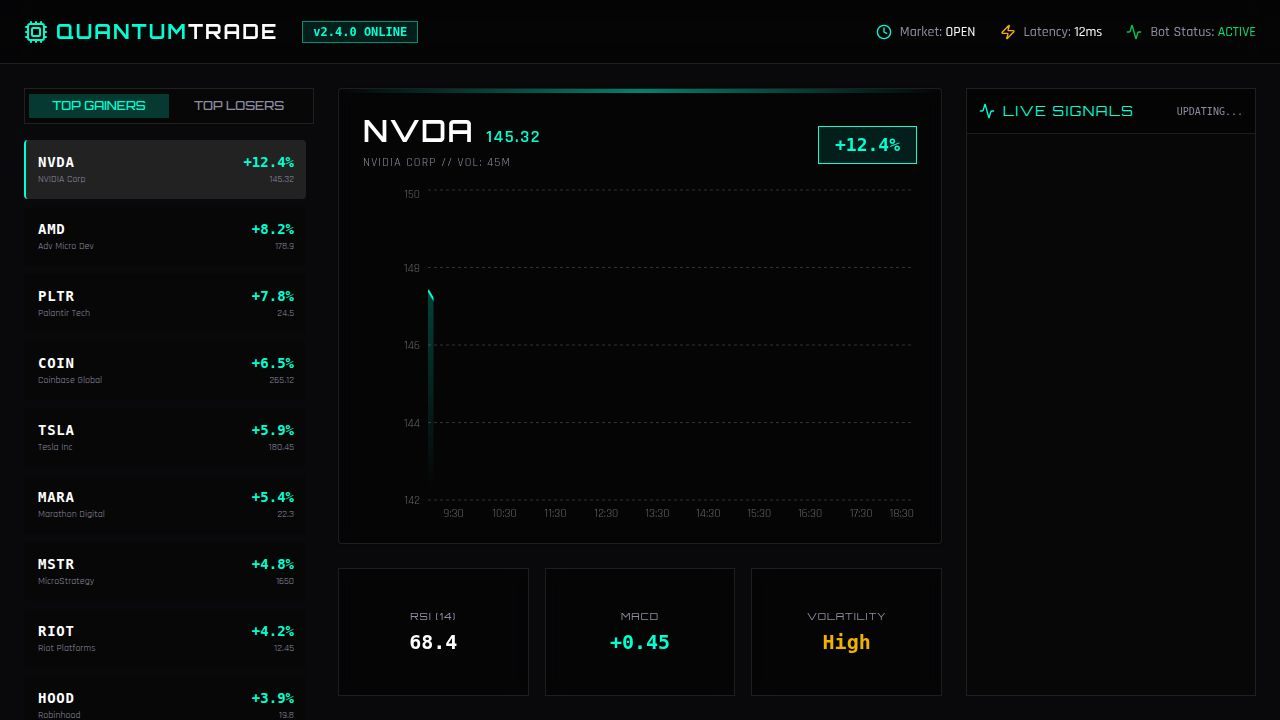
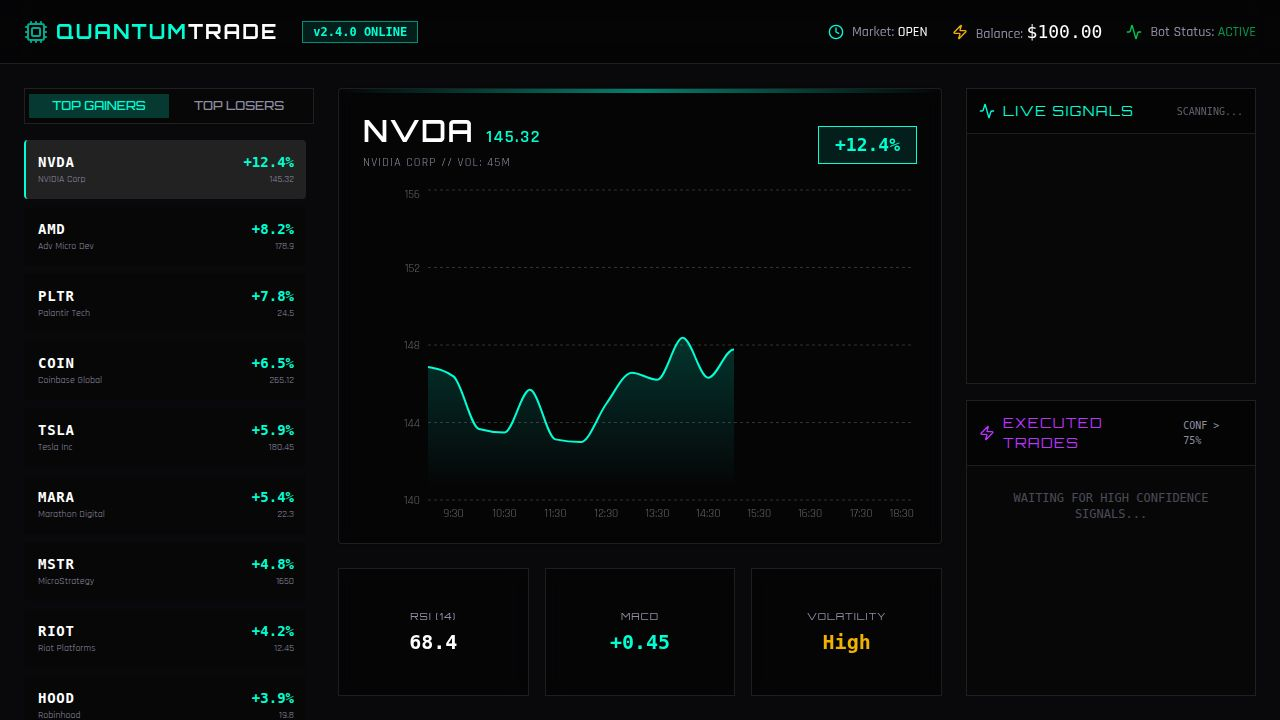
Automate trades and track transaction history for the trading bot
Introduce balance state, transaction history tracking, and automated trading logic that triggers trades on signals with over 75% confidence, updating the balance and logging executed trades.

Replit-Commit-Author: Agent
Replit-Commit-Session-Id: 3a35ee0f-bc3b-4864-a9a5-37226ac26f4b
Replit-Commit-Checkpoint-Type: full_checkpoint
Replit-Commit-Event-Id: b422cfcd-a5a5-4781-a444-f5a15e6d1330
Replit-Commit-Screenshot-Url: https://storage.googleapis.com/screenshot-production-us-central1/daf65a7d-4e71-4830-8395-3f9e1673e2cd/3a35ee0f-bc3b-4864-a9a5-37226ac26f4b/gB4lwvU
Replit-Helium-Checkpoint-Created: true

diff --git a/client/src/pages/dashboard.tsx b/client/src/pages/dashboard.tsx
@@ -87,10 +87,21 @@ interface PredictionLog {
   simulatedProfit: number; // Potential profit on $10
 }
 
+interface Transaction {
+  id: number;
+  symbol: string;
+  action: "BUY" | "SELL";
+  amount: number;
+  profit: number;
+  time: string;
+}
+
 export default function Dashboard() {
   const [logs, setLogs] = useState<PredictionLog[]>([]);
   const [selectedStock, setSelectedStock] = useState(TOP_GAINERS[0]);
   const [chartData, setChartData] = useState(generateStockData(TOP_GAINERS[0].price));
+  const [balance, setBalance] = useState(100);
+  const [transactions, setTransactions] = useState<Transaction[]>([]);
 
   // Simulate Bot Activity
   useEffect(() => {
@@ -123,6 +134,21 @@ export default function Dashboard() {
       };
 
       setLogs(prev => [newLog, ...prev].slice(0, 50));
+
+      // AUTO-TRADE LOGIC: If confidence > 75%, execute trade
+      if (confidence > 75 && action !== "HOLD") {
+        setBalance(prev => prev + simulatedProfit);
+        const newTransaction: Transaction = {
+          id: Date.now(),
+          symbol: randomStock.symbol,
+          action: action as "BUY" | "SELL",
+          amount: investment,
+          profit: simulatedProfit,
+          time: new Date().toLocaleTimeString()
+        };
+        setTransactions(prev => [newTransaction, ...prev].slice(0, 50));
+      }
+
     }, 3000); // New prediction every 3 seconds for demo (user asked for 5 min)
 
     return () => clearInterval(interval);
@@ -187,7 +213,7 @@ export default function Dashboard() {
           </div>
           <div className="flex items-center gap-2">
             <Zap className="w-4 h-4 text-yellow-500" />
-            <span>Latency: <span className="text-white">12ms</span></span>
+            <span>Balance: <span className="text-white font-mono text-lg">${balance.toFixed(2)}</span></span>
           </div>
           <div className="flex items-center gap-2">
             <Activity className="w-4 h-4 text-green-500" />
@@ -289,61 +315,114 @@ export default function Dashboard() {
           </div>
         </section>
 
-        {/* Right Sidebar - Live Bot Logs */}
-        <aside className="col-span-3 flex flex-col h-[calc(100vh-7rem)] bg-black/20 border border-white/10">
-          <div className="p-3 border-b border-white/10 bg-black/40 flex items-center justify-between">
-            <h3 className="font-orbitron text-sm text-primary tracking-widest flex items-center gap-2">
-              <Activity className="w-4 h-4" /> LIVE SIGNALS
-            </h3>
-            <span className="text-[10px] text-muted-foreground font-mono animate-pulse">UPDATING...</span>
-          </div>
-          <div className="flex-1 overflow-y-auto p-2 space-y-2 custom-scrollbar">
-            <AnimatePresence initial={false}>
-              {logs.map((log) => (
-                <motion.div
-                  key={log.id}
-                  initial={{ opacity: 0, x: 20 }}
-                  animate={{ opacity: 1, x: 0 }}
-                  exit={{ opacity: 0 }}
-                  className="p-3 rounded border border-white/5 bg-white/5 hover:bg-white/10 transition-colors"
-                >
-                  <div className="flex justify-between items-start mb-1">
-                    <span className="font-bold text-white font-mono">{log.symbol}</span>
-                    <span className="text-[10px] text-muted-foreground">{log.time}</span>
-                  </div>
-                  <div className="flex items-center justify-between">
-                    <Badge 
-                      variant="outline" 
-                      className={`text-[10px] h-5 px-1 border-0 ${
-                        log.action === 'BUY' ? 'bg-primary/20 text-primary' : 
-                        log.action === 'SELL' ? 'bg-destructive/20 text-destructive' : 
-                        'bg-white/10 text-white'
-                      }`}
-                    >
-                      {log.action}
-                    </Badge>
-                    <span className={`text-xs font-mono font-bold ${log.confidence > 85 ? 'text-green-400' : 'text-yellow-400'}`}>
-                      {log.confidence}% CONF
-                    </span>
-                  </div>
-                  
-                  {/* Simulated Profit Section */}
-                  {log.action !== 'HOLD' && (
-                    <div className="mt-2 p-2 bg-black/40 rounded border border-white/5 flex justify-between items-center">
-                      <span className="text-[10px] text-muted-foreground font-mono">Simulated $10 Trade:</span>
-                      <span className={`text-xs font-bold font-mono ${log.simulatedProfit >= 0 ? 'text-primary' : 'text-destructive'}`}>
-                        {log.simulatedProfit >= 0 ? '+' : ''}${log.simulatedProfit.toFixed(2)}
+        {/* Right Sidebar - Live Bot Logs & Transactions */}
+        <aside className="col-span-3 flex flex-col h-[calc(100vh-7rem)] gap-4">
+          
+          {/* Live Signals Panel (Top Half) */}
+          <div className="flex-1 flex flex-col bg-black/20 border border-white/10 overflow-hidden">
+            <div className="p-3 border-b border-white/10 bg-black/40 flex items-center justify-between">
+              <h3 className="font-orbitron text-sm text-primary tracking-widest flex items-center gap-2">
+                <Activity className="w-4 h-4" /> LIVE SIGNALS
+              </h3>
+              <span className="text-[10px] text-muted-foreground font-mono animate-pulse">SCANNING...</span>
+            </div>
+            <div className="flex-1 overflow-y-auto p-2 space-y-2 custom-scrollbar">
+              <AnimatePresence initial={false}>
+                {logs.map((log) => (
+                  <motion.div
+                    key={log.id}
+                    initial={{ opacity: 0, x: 20 }}
+                    animate={{ opacity: 1, x: 0 }}
+                    exit={{ opacity: 0 }}
+                    className="p-3 rounded border border-white/5 bg-white/5 hover:bg-white/10 transition-colors"
+                  >
+                    <div className="flex justify-between items-start mb-1">
+                      <span className="font-bold text-white font-mono">{log.symbol}</span>
+                      <span className="text-[10px] text-muted-foreground">{log.time}</span>
+                    </div>
+                    <div className="flex items-center justify-between">
+                      <Badge 
+                        variant="outline" 
+                        className={`text-[10px] h-5 px-1 border-0 ${
+                          log.action === 'BUY' ? 'bg-primary/20 text-primary' : 
+                          log.action === 'SELL' ? 'bg-destructive/20 text-destructive' : 
+                          'bg-white/10 text-white'
+                        }`}
+                      >
+                        {log.action}
+                      </Badge>
+                      <span className={`text-xs font-mono font-bold ${log.confidence > 85 ? 'text-green-400' : 'text-yellow-400'}`}>
+                        {log.confidence}% CONF
                       </span>
                     </div>
-                  )}
+                    
+                    {/* Simulated Profit Section */}
+                    {log.action !== 'HOLD' && (
+                      <div className="mt-2 p-2 bg-black/40 rounded border border-white/5 flex justify-between items-center">
+                        <span className="text-[10px] text-muted-foreground font-mono">Simulated $10 Trade:</span>
+                        <span className={`text-xs font-bold font-mono ${log.simulatedProfit >= 0 ? 'text-primary' : 'text-destructive'}`}>
+                          {log.simulatedProfit >= 0 ? '+' : ''}${log.simulatedProfit.toFixed(2)}
+                        </span>
+                      </div>
+                    )}
 
-                  <p className="text-[10px] text-muted-foreground mt-2 font-mono leading-relaxed border-t border-white/5 pt-1">
-                    <span className="text-white/50">REASON:</span> {log.reason}
-                  </p>
-                </motion.div>
-              ))}
-            </AnimatePresence>
+                    <p className="text-[10px] text-muted-foreground mt-2 font-mono leading-relaxed border-t border-white/5 pt-1">
+                      <span className="text-white/50">REASON:</span> {log.reason}
+                    </p>
+                  </motion.div>
+                ))}
+              </AnimatePresence>
+            </div>
           </div>
+
+          {/* Transactions Panel (Bottom Half) */}
+          <div className="flex-1 flex flex-col bg-black/20 border border-white/10 overflow-hidden">
+            <div className="p-3 border-b border-white/10 bg-black/40 flex items-center justify-between">
+              <h3 className="font-orbitron text-sm text-secondary tracking-widest flex items-center gap-2">
+                <Zap className="w-4 h-4" /> EXECUTED TRADES
+              </h3>
+              <span className="text-[10px] text-muted-foreground font-mono">CONF &gt; 75%</span>
+            </div>
+            <div className="flex-1 overflow-y-auto p-2 space-y-2 custom-scrollbar">
+              <AnimatePresence initial={false}>
+                {transactions.map((tx) => (
+                  <motion.div
+                    key={tx.id}
+                    initial={{ opacity: 0, y: 10 }}
+                    animate={{ opacity: 1, y: 0 }}
+                    className="p-2 rounded border border-white/5 bg-white/5 flex justify-between items-center"
+                  >
+                    <div>
+                      <div className="flex items-center gap-2">
+                        <span className="font-bold text-white font-mono text-sm">{tx.symbol}</span>
+                        <Badge 
+                          variant="outline" 
+                          className={`text-[10px] h-4 px-1 border-0 ${
+                            tx.action === 'BUY' ? 'bg-primary/20 text-primary' : 'bg-destructive/20 text-destructive'
+                          }`}
+                        >
+                          {tx.action}
+                        </Badge>
+                      </div>
+                      <span className="text-[10px] text-muted-foreground font-mono">{tx.time}</span>
+                    </div>
+                    <div className="text-right">
+                      <div className={`text-sm font-bold font-mono ${tx.profit >= 0 ? 'text-primary' : 'text-destructive'}`}>
+                        {tx.profit >= 0 ? '+' : ''}${tx.profit.toFixed(2)}
+                      </div>
+                      <span className="text-[10px] text-muted-foreground font-mono">BAL: ${(100 + tx.profit).toFixed(2)}</span>
+                    </div>
+                  </motion.div>
+                ))}
+                {transactions.length === 0 && (
+                  <div className="text-center text-muted-foreground text-xs py-4 font-mono opacity-50">
+                    WAITING FOR HIGH CONFIDENCE SIGNALS...
+                  </div>
+                )}
+              </AnimatePresence>
+            </div>
+          </div>
+
         </aside>
 
       </main>
